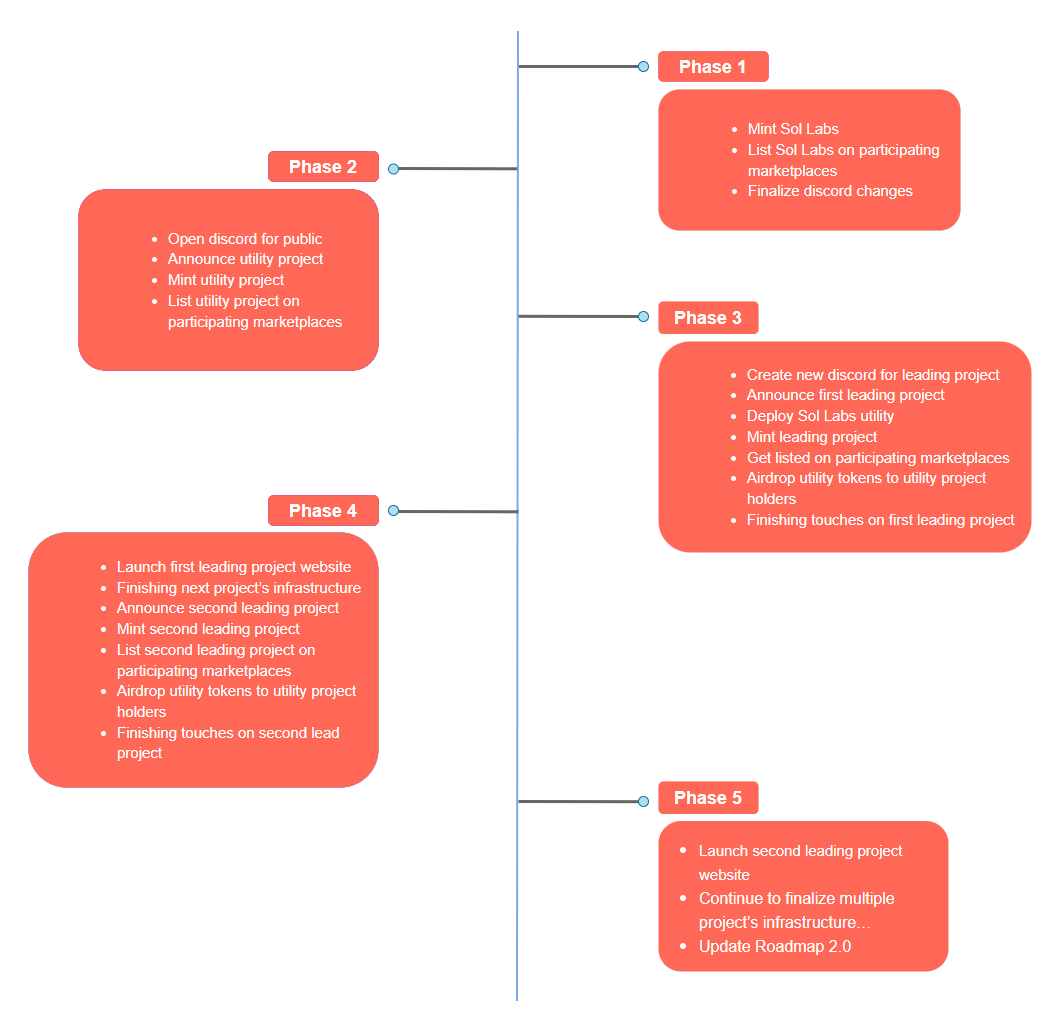
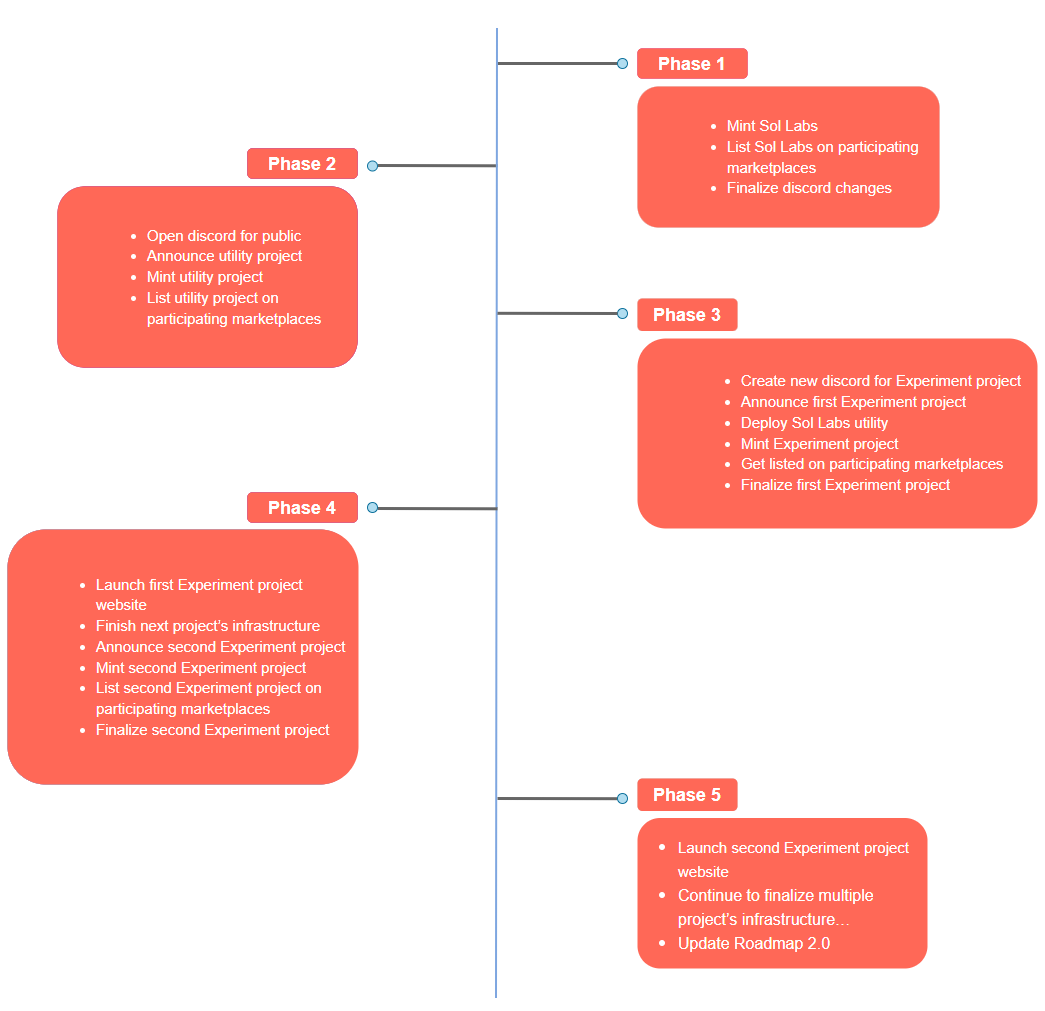
updated roadmap and mint countdown

diff --git a/src/components/Mint/Home.tsx b/src/components/Mint/Home.tsx
@@ -320,13 +320,7 @@ const Home = (props: HomeProps) => {
                         : undefined,
                   )}
                   style={{ justifyContent: 'flex-end' }}
-                  status={
-                    !isActive || isSoldOut
-                      ? 'COMPLETED'
-                      : isPresale
-                        ? 'PRESALE'
-                        : 'LIVE'
-                  }
+                  onComplete={refreshCandyMachineState}
                 />
               )
       }

diff --git a/src/components/Mint/MintCountdown.tsx b/src/components/Mint/MintCountdown.tsx
@@ -75,8 +75,9 @@ export const MintCountdown: React.FC<MintCountdownProps> = ({
     completed,
   }: MintCountdownRender) => {
     hours += days * 24;
-    if (completed) {
-      return status ? <span className={classes.done}>{status}</span> : null;
+    if (completed && onComplete) {
+      onComplete();
+      return null;
     } else {
       return (
         <div className={classes.root} style={style}>
